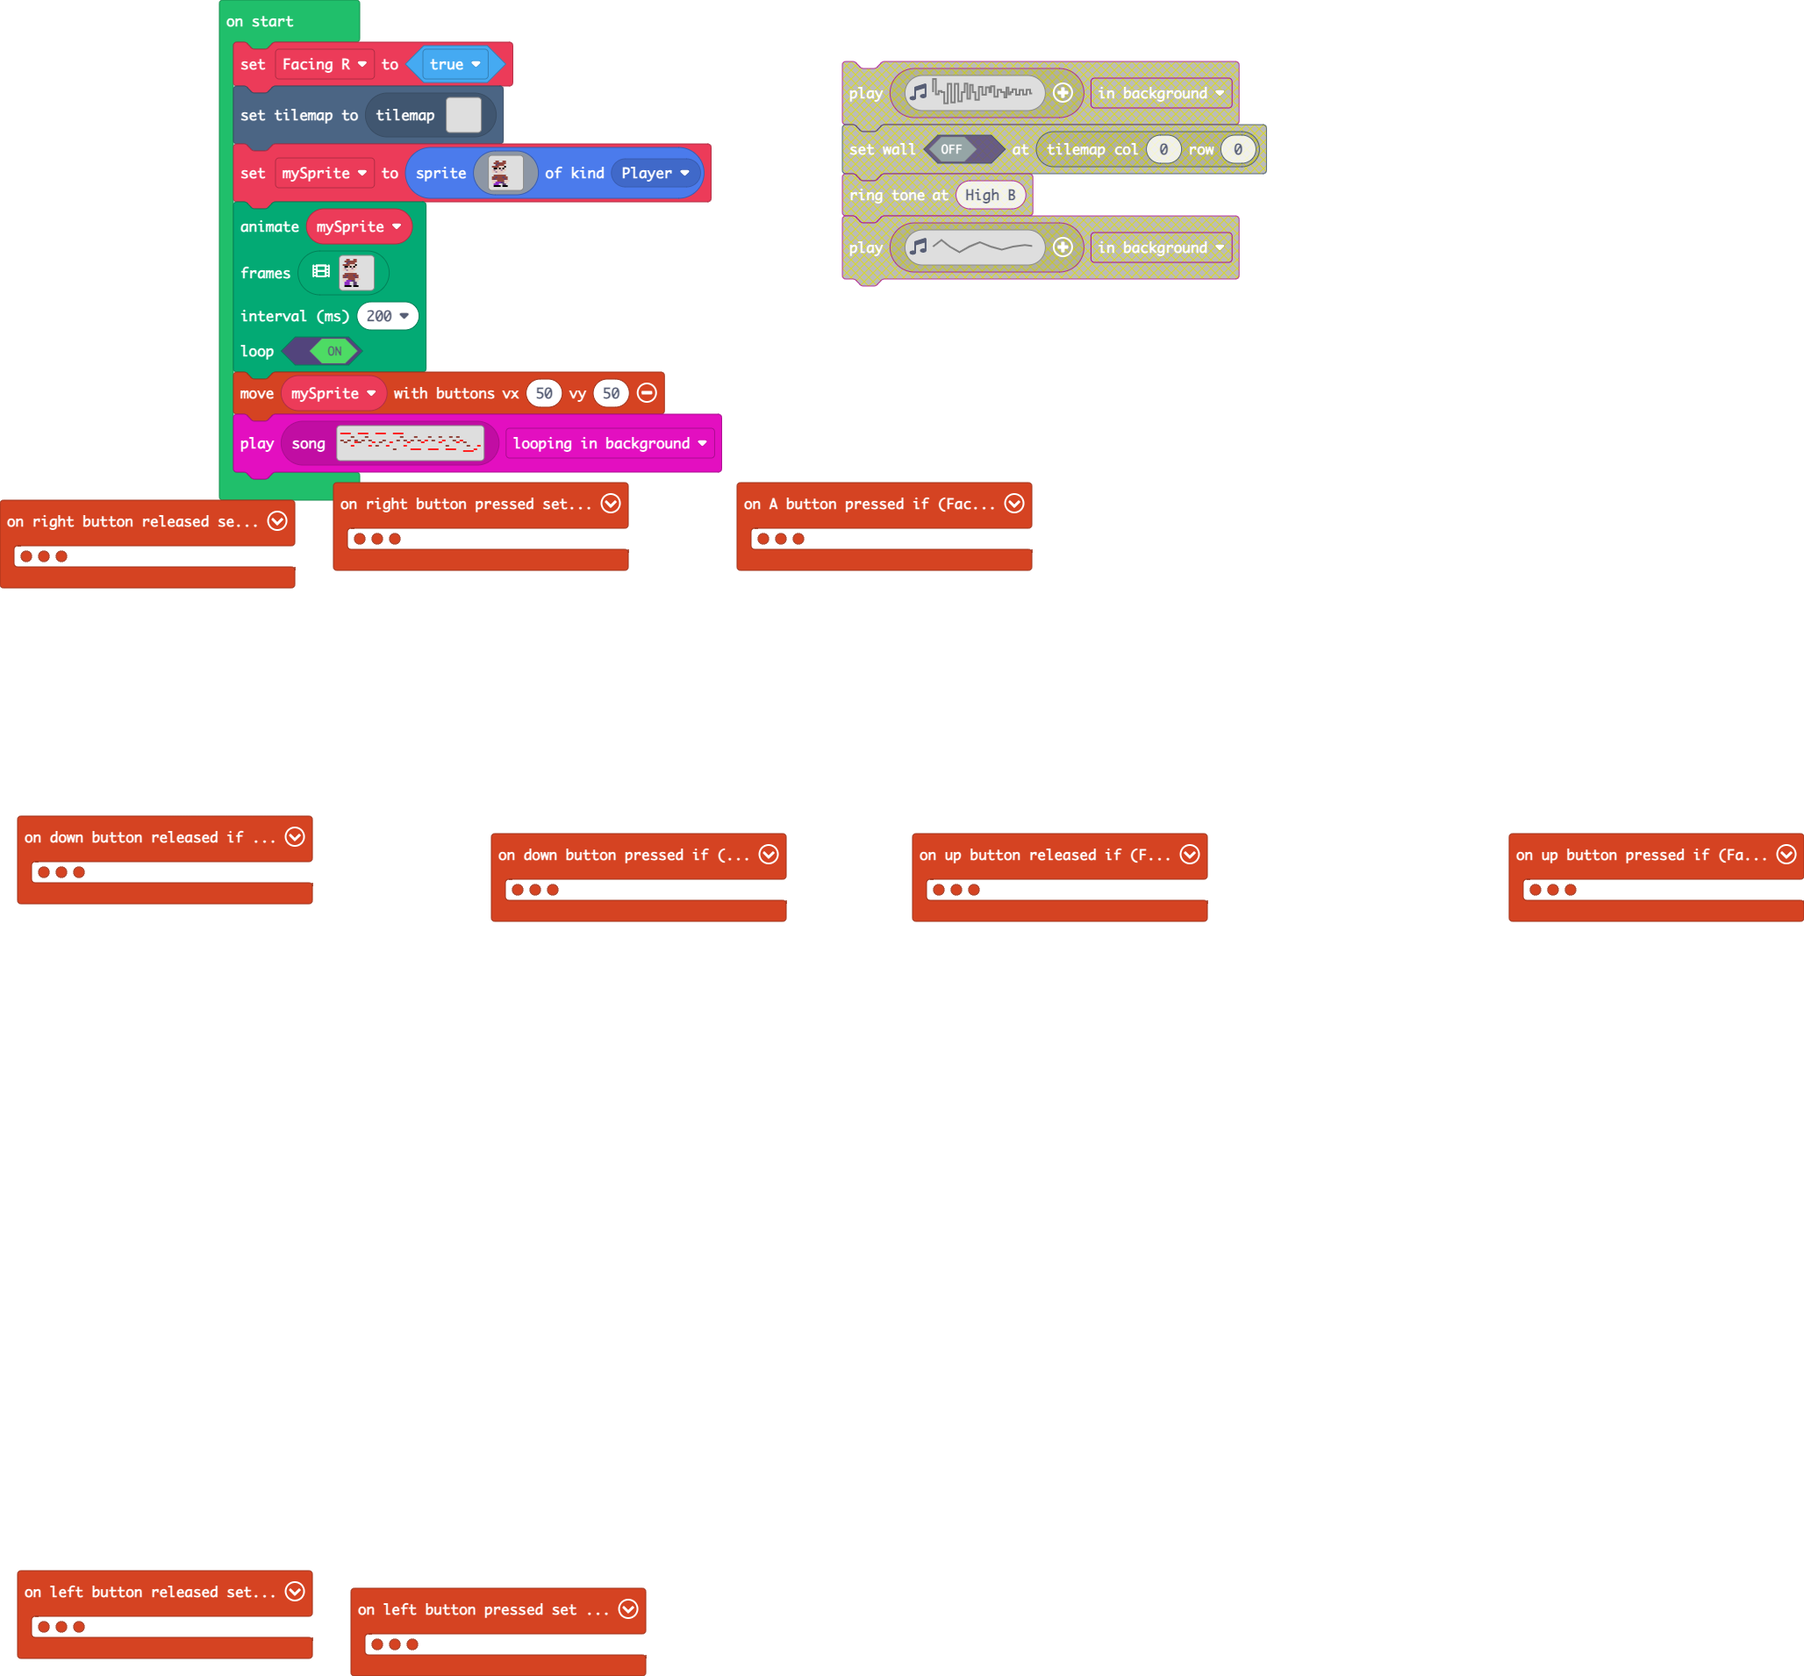
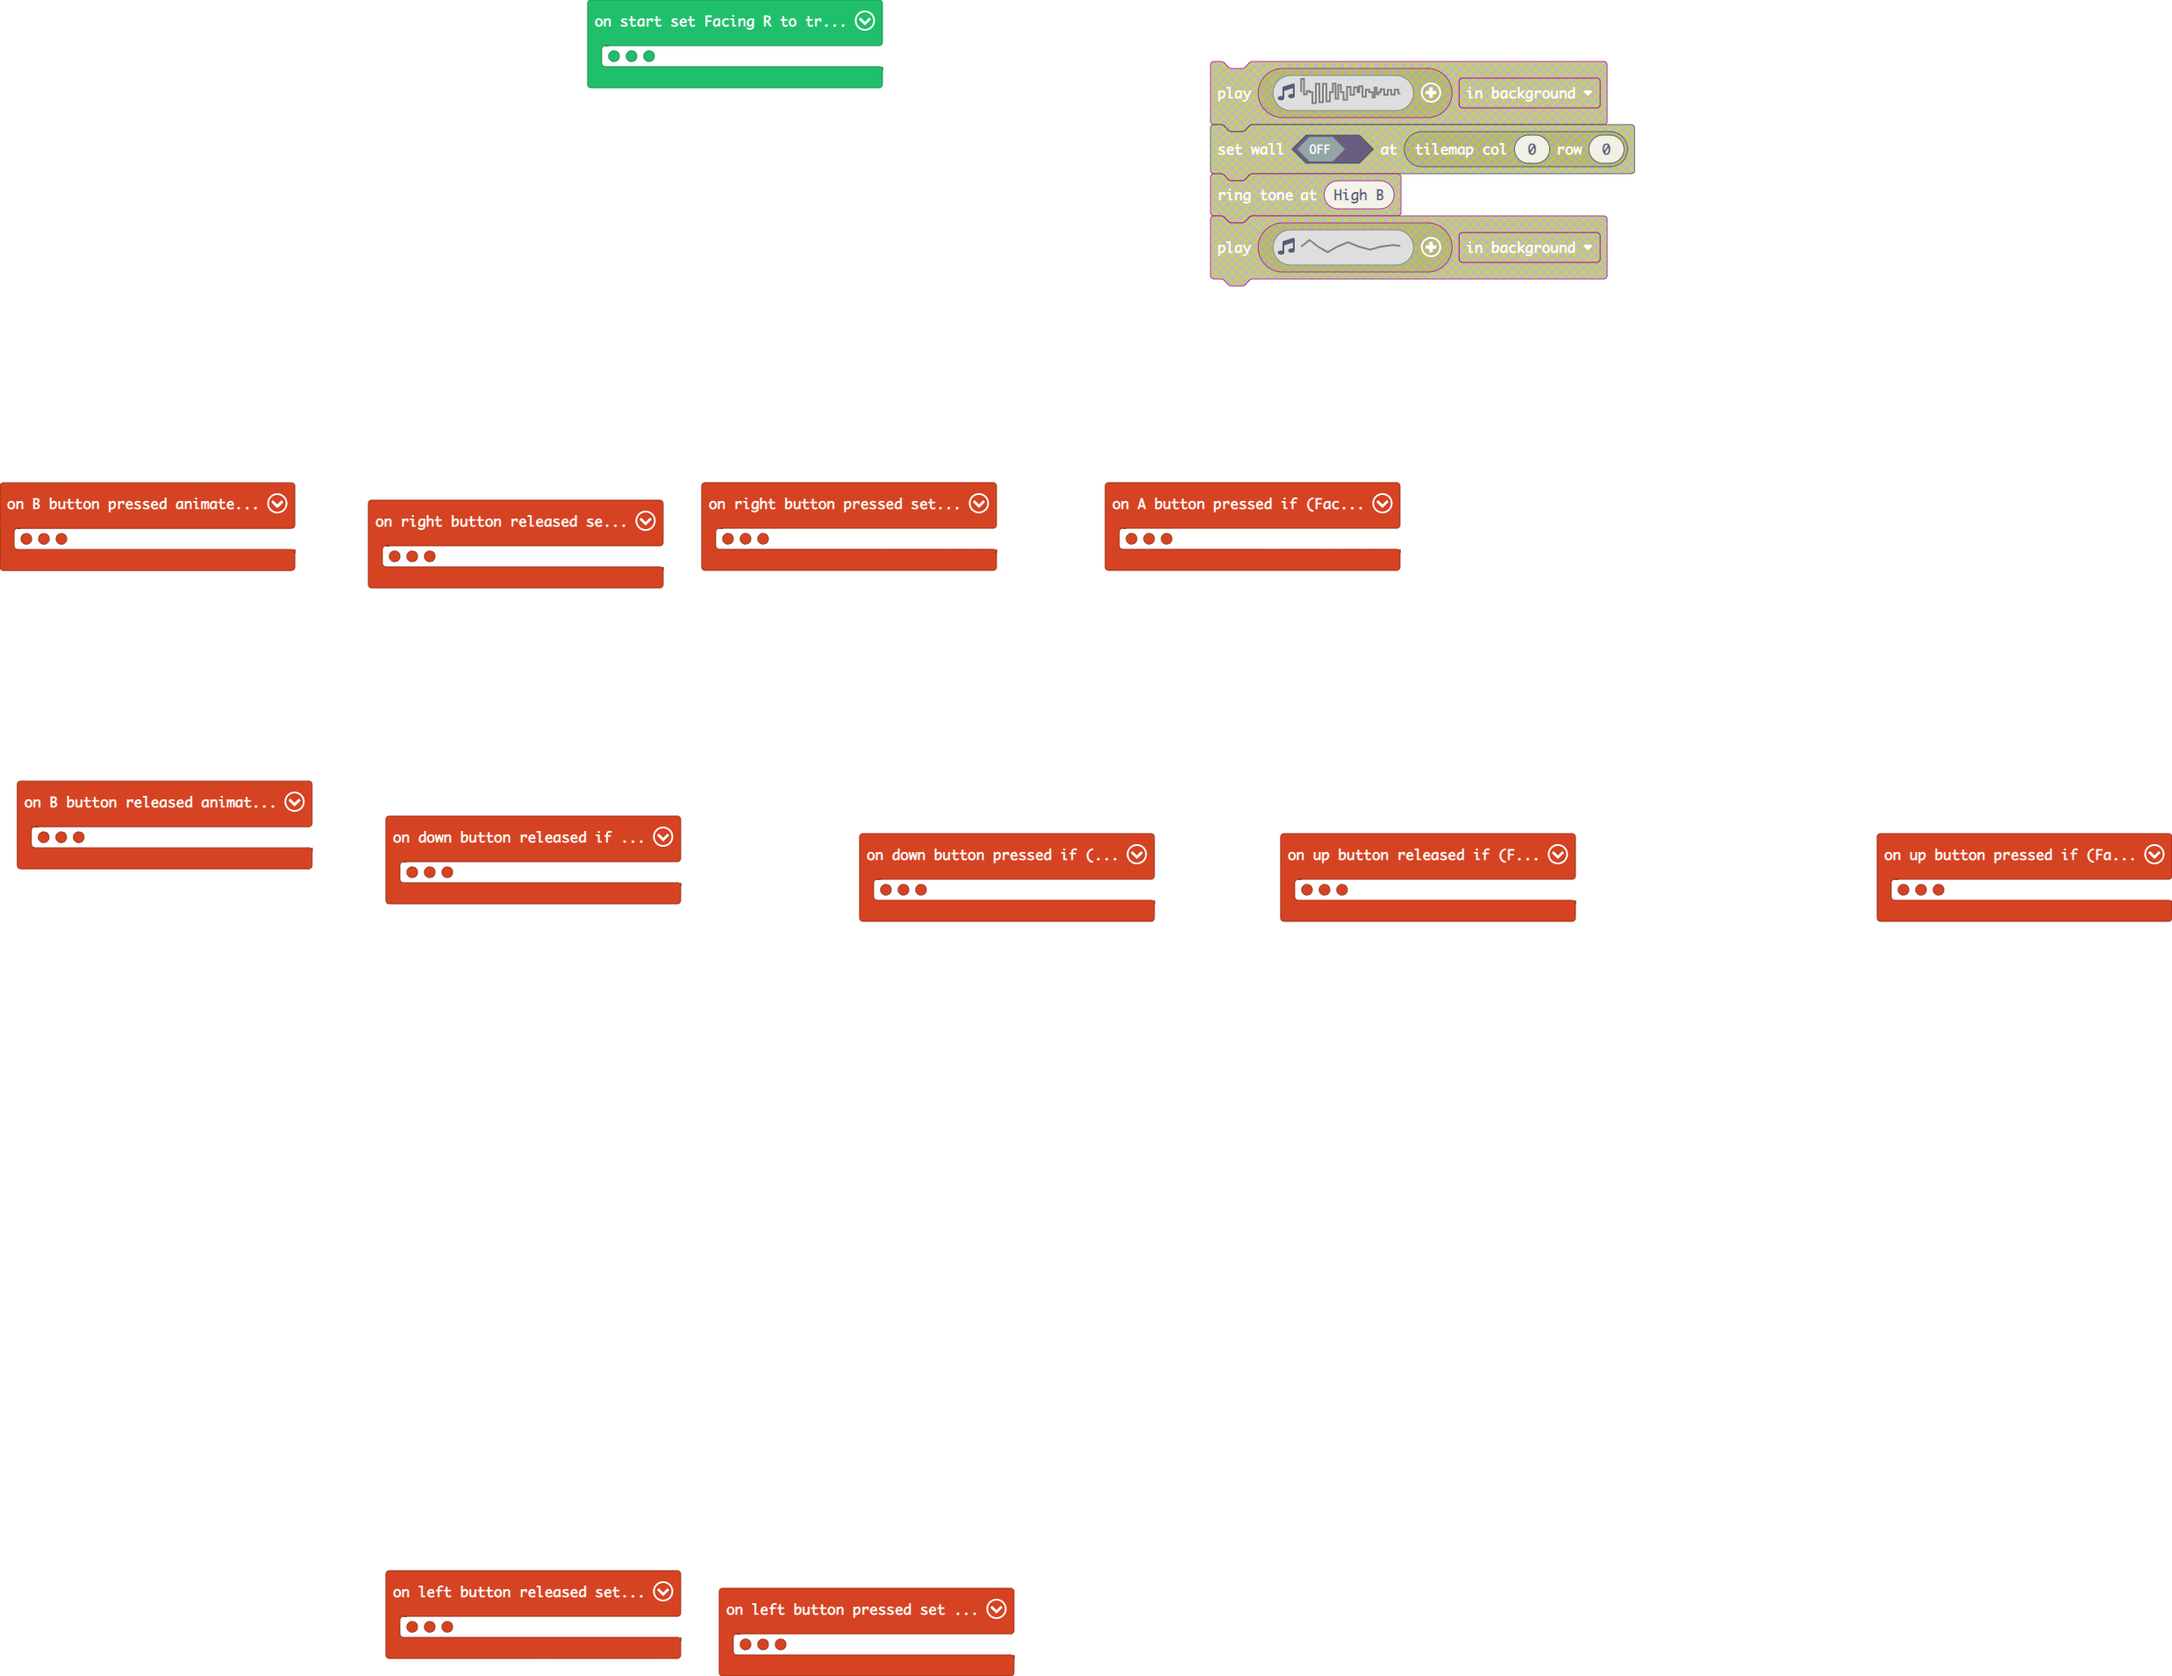
Update main.blocks, main.ts

diff --git a/main.ts b/main.ts
@@ -91,6 +91,14 @@ controller.right.onEvent(ControllerButtonEvent.Pressed, function () {
     true
     )
 })
+controller.B.onEvent(ControllerButtonEvent.Released, function () {
+    animation.runImageAnimation(
+    mySprite,
+    assets.animation`Pirate Stand`,
+    200,
+    true
+    )
+})
 controller.left.onEvent(ControllerButtonEvent.Pressed, function () {
     Facing_L = true
     Facing_R = false
@@ -121,6 +129,14 @@ controller.down.onEvent(ControllerButtonEvent.Pressed, function () {
         true
         )
     }
+})
+controller.B.onEvent(ControllerButtonEvent.Pressed, function () {
+    animation.runImageAnimation(
+    mySprite,
+    assets.animation`Pirate Parry`,
+    100,
+    false
+    )
 })
 controller.down.onEvent(ControllerButtonEvent.Released, function () {
     if (Facing_R == true) {
@@ -156,4 +172,4 @@ assets.animation`Pirate Stand`,
 true
 )
 controller.moveSprite(mySprite, 50, 50)
-music.play(music.createSong(assets.song`mySong`), music.PlaybackMode.LoopingInBackground)
+music.play(music.createSong(assets.song`mySong0`), music.PlaybackMode.LoopingInBackground)
